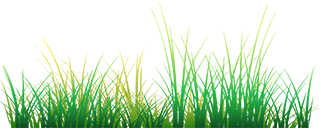
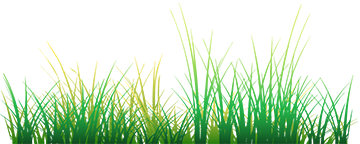
imagen de hierba para vista de detalle ajustada

diff --git a/static/js/min/list.js b/static/js/min/list.js
@@ -3,7 +3,9 @@ eval(function(a,c,b,d,e,f){e=function(a){return(a<c?"":e(parseInt(a/c)))+(35<(a%
 0,{}));var Lat2Km=111.03461,Km2Lat=0.009006,Lon2Km=85.39383,Km2Lon=0.01171,LL2Km=98.2,Km2LL=0.010183,FUEL_OPTIONS={1:{"short":"G95",name:"Gasolina 95"},3:{"short":"G98",name:"Gasolina 98"},4:{"short":"GOA",name:"Gas\u00f3leo Automoci\u00f3n"},5:{"short":"NGO",name:"Nuevo Gas\u00f3leo A"},6:{"short":"GOB",name:"Gas\u00f3leo B"},7:{"short":"GOC",name:"Gas\u00f3leo C"},8:{"short":"BIOD",name:"Biodi\u00e9sel"}},CHART_OPTIONS=[{id:"G98",color:"#339933",name:"Gasolina 98"},{id:"G95",color:"#006633",name:"Gasolina 95"},
 {id:"NGO",color:"#aaa",name:"Nuevo Gas\u00f3leo A"},{id:"BIOD",color:"#f1aa41",name:"Biodi\u00e9sel"},{id:"GOA",color:"#000",name:"Gas\u00f3leo A"},{id:"GOC",color:"#FF3300",name:"Gas\u00f3leo C"},{id:"GOB",color:"#CC3333",name:"Gas\u00f3leo B"}],PROVS={"\u00c1lava":"01",Albacete:"02",Alicante:"03","Almer\u00eda":"04",Asturias:"33","\u00c1vila":"05",Badajoz:"06","Balears (Illes)":"07",Barcelona:"08",Burgos:"09","C\u00e1ceres":"10","C\u00e1diz":"11",Cantabria:"39","Castell\u00f3n / Castell\u00f3":"12",
 Ceuta:"51","Ciudad Real":"13","C\u00f3rdoba":"14","Coru\u00f1a (A)":"15",Cuenca:"16",Girona:"17",Granada:"18",Guadalajara:"19","Guip\u00fazcoa":"20",Huelva:"21",Huesca:"22","Ja\u00e9n":"23","Le\u00f3n":"24",Lleida:"25",Lugo:"27",Madrid:"28","M\u00e1laga":"29",Melilla:"52",Murcia:"30",Navarra:"31",Ourense:"32",Palencia:"34","Palmas (Las)":"35",Pontevedra:"36","Rioja (La)":"26",Salamanca:"37","Santa Cruz De Tenerife":"38",Segovia:"40",Sevilla:"41",Soria:"42",Tarragona:"43",Teruel:"44",Toledo:"45","Valencia / Val\u00e8ncia":"46",
-Valladolid:"47",Vizcaya:"48",Zamora:"49",Zaragoza:"50"},MONTHS="Enero Febrero Marzo Abril Mayo Junio Julio Agosto Septiembre Octubre Noviembre Diciembre".split(" "),COLORS={stroke:"#fff",min:"#36AE34",max:"#f00",mu:"#3399CC"},info=null,LS_EXPIRE=36E5,APIS={gasolineras:"api",resultados:"geo",ficha:"api"};function getProvName(a){for(k in PROVS)if(PROVS[k]==a)return k}function clearHtmlTags(a){return a.replace(/(<([^>]+)>)/ig,"")}
+Valladolid:"47",Vizcaya:"48",Zamora:"49",Zaragoza:"50"},MONTHS="Enero Febrero Marzo Abril Mayo Junio Julio Agosto Septiembre Octubre Noviembre Diciembre".split(" "),COLORS={stroke:"#fff",min:"#36AE34",max:"#f00",mu:"#3399CC"},info=null,LS_EXPIRE=36E5,APIS={gasolineras:"api",resultados:"geo",ficha:"api"};
+function lockScroll(a){document.getElementById(a).addEventListener("mouseover",function(){document.body.style.overflow="hidden"});document.getElementById(a).addEventListener("mouseout",function(){document.body.style.overflow="auto"})}function initProvLinks(a){a=document.getElementById(a);for(var c in PROVS){var b=document.createElement("li"),d=document.createElement("a");d.title="Todas las gasolineras de "+c;d.textContent=c;d.href="/gasolineras/"+encodeName(c);b.appendChild(d);a.appendChild(b)}}
+function getProvName(a){for(k in PROVS)if(PROVS[k]==a)return k}function clearHtmlTags(a){return a.replace(/(<([^>]+)>)/ig,"")}
 function toTitle(a){return a.replace(" [N]","").replace(/^CARRETERA ?|^CR\.? ?/i,"CTRA. ").replace(/(CTRA. )+/i,"CTRA. ").replace(/^AVENIDA ?|^AV. ?/i,"AVDA. ").replace(/^POLIGONO INDUSTRIAL ?|POLIGONO ?|P\.I\. ?/i,"POL. IND. ").replace(/^CALLE |^CL\.? ?|C\/ ?/i,"C/ ").replace(/^RONDA |^RD /i,"RDA. ").replace(/^AUTOPISTA (AUTOPISTA ?)?/i,"AU. ").replace(/^PLAZA ?/i,"PL. ").replace(/^PASEO (PASEO ?)?/i,"P\u00ba ").replace(/^TRAVESS?[I\u00cd]A /i,"TRAV. ").replace(/^V[i\u00ed]A (V[I\u00cd]A )?/i,"V\u00cdA ").replace(/\B[^\d- ]+[ $]/g,
 function(a){return a.toLowerCase()}).replace(/\b[NAE]-.+\b/,function(a){return a.toUpperCase()}).replace(/\[D\]$/,"(m.d.)").replace(/\[I\]$/,"(m.i.)").replace(/ \[N\]$/,"")}
 function getLogo(a){return a&&(a=a.replace(/camspa/i,"campsa"),logo=a.match(/\b(abycer|agla|alcampo|andamur|a\.?n\.? energeticos|avia|bonarea|b\.?p\.?|buquerin|campsa|carmoned|carrefour|cepsa|empresoil|eroski|esclatoil|galp|gasolben|iberdoex|leclerc|makro|meroil|norpetrol|petrem|petrocat|petromiralles|petronor|repostar|repsol|saras|shell|simply|staroil|tamoil|valcarce)\b/i))?logo[0].replace(/\./g,"").replace(/ /g,"_").toLowerCase():null}
@@ -37,10 +39,9 @@ function filterTypes(a){for(var c=0;c<a.length;c++)for(var b=a[c].split(" "),d=b
 function filterText(){function a(a){return a.toLowerCase().replace(/[\u00e1\u00e0\u00e4]/g,"a").replace(/[\u00e9\u00e8\u00eb]/g,"e").replace(/[\u00ed\u00ec\u00ef]/g,"i").replace(/[\u00f3\u00f2\u00f6]/g,"o").replace(/[\u00fa\u00f9\u00fc]/g,"u")}var c=document.getElementById("contains").value;if(c.length)for(var c=c.split(/ +/),b=document.getElementById("table-data").getElementsByTagName("tr"),d=0;d<b.length;d++){var e=b[d];if("r_off"!=e.className)for(var f=0;f<c.length;f++)if(c[f].length){for(var g=
 !1,h=RegExp(a(c[f])),l=e.getElementsByTagName("td"),m=0;2>m;m++)g=g||null!=h.exec(a(l[m].textContent));e.className=g?"r_on":"f_off";if(!g)break}}else{b=document.getElementById("table-data").getElementsByClassName("f_off");for(d=0;d<b.length;d++)b[d].className="r_on"}}
 function initControl(){for(var a=document.getElementById("fuel-type").getElementsByTagName("li"),c=[],b=0;b<a.length;b++)stats[a[b].className.split(" ")[0].split("_")[1]]?(c.push(a[b].className),a[b].addEventListener("click",function(){var a=this.className.split(" ");this.className=a=a[0]+" "+("on"==a[1]?"off":"on");filterTypes([a]);filterText();paginateTable(0);updateMarkers()})):(c.push(a[b].className.replace("on","off")),a[b].className="disabled");filterTypes(c);document.getElementById("contains").onkeyup=
-function(){filterText();paginateTable(0);updateMarkers()};a=document.getElementById("table").getElementsByTagName("th");for(c=0;c<a.length;c++)a[c].addEventListener("click",function(a){sortTable(this.className.match(/T_\w+/)[0],this.className.match("sort_up"),this.hasAttribute("data-float"))});document.getElementById("cities-list").addEventListener("mouseover",function(){document.body.style.overflow="hidden"});document.getElementById("cities-list").addEventListener("mouseout",function(){document.body.style.overflow=
-"auto"})}
-function showDetail(a){map.panTo(a.position);markerDetail?(markerDetail.setMap(map),markerDetail.position=a.position,markerDetail.setAnimation(google.maps.Animation.BOUNCE)):markerDetail=new google.maps.Marker({position:a.position,map:map,animation:google.maps.Animation.BOUNCE,icon:"/img/pump_mark.png"});document.getElementById("detail").className="on";a=document.getElementById(a.get("id"));var c=a.getElementsByClassName("T_ADDR")[0].getAttribute("label"),b=a.getElementsByClassName("T_ADDR")[0].getElementsByTagName("a")[0].textContent,d=
-a.getElementsByClassName("T_ADDR")[0].getElementsByTagName("a")[0].href,e=a.getElementsByClassName("T_LOC")[0].textContent;document.getElementById("d-title").textContent="Gasolinera '"+c+"' en "+e+", "+b;document.getElementById("d-link").href=d;c=document.getElementById("d-prices");c.innerHTML="";b=a.getElementsByTagName("td");for(d=4;d<b.length;d++)if(e=b[d].textContent){var f=b[d].className.match(/T_\w+/)[0].replace("T_",""),g=document.createElement("li");g.textContent=FUEL_OPTIONS[f].name;g.className=
+function(){filterText();paginateTable(0);updateMarkers()};a=document.getElementById("table").getElementsByTagName("th");for(c=0;c<a.length;c++)a[c].addEventListener("click",function(a){sortTable(this.className.match(/T_\w+/)[0],this.className.match("sort_up"),this.hasAttribute("data-float"))});lockScroll("cities-list")}
+function showDetail(a){map.panTo(a.position);markerDetail?(markerDetail.setMap(map),markerDetail.position=a.position,markerDetail.setAnimation(google.maps.Animation.BOUNCE)):markerDetail=new google.maps.Marker({position:a.position,map:map,animation:google.maps.Animation.BOUNCE,icon:"/img/pump_mark.png"});document.getElementById("detail").className="on";a=document.getElementById(a.get("id"));var c=a.getElementsByClassName("T_ADDR")[0].getAttribute("label"),b=a.getElementsByClassName("T_ADDR")[0].getElementsByTagName("a")[0].textContent,
+d=a.getElementsByClassName("T_ADDR")[0].getElementsByTagName("a")[0].href,e=a.getElementsByClassName("T_LOC")[0].textContent;document.getElementById("d-title").textContent="Gasolinera '"+c+"' en "+e+", "+b;document.getElementById("d-link").href=d;c=document.getElementById("d-prices");c.innerHTML="";b=a.getElementsByTagName("td");for(d=4;d<b.length;d++)if(e=b[d].textContent){var f=b[d].className.match(/T_\w+/)[0].replace("T_",""),g=document.createElement("li");g.textContent=FUEL_OPTIONS[f].name;g.className=
 "T_"+f;f=document.createElement("div");f.textContent=e;g.appendChild(f);c.appendChild(g)}c=document.getElementById("d-date");b=document.getElementById("d-clock");a=(new Date-new Date(parseInt(a.getElementsByClassName("T_DATE")[0].textContent)))/TO_DAYS;d="";e="sprt clock";1>a?(d=" hoy",e+="_new"):(d=" hace "+Math.floor(a)+" d\u00eda"+(2<a?"s":""),e+=7>=a?"_med":"_old");c.textContent="Precios actualizados "+d;b.className=e;google.maps.event.addListenerOnce(map,"mousedown",function(){document.getElementById("detail").className=
 "";markerDetail.setMap(null)})}
 function populateInfo(){document.getElementById("info");var a=document.getElementById("summary-b"),c;for(c in stats){var b=stats[c],d=document.createElement("tr");d.className="data T_"+c;var e=document.createElement("td");e.textContent=FUEL_OPTIONS[c].name;d.appendChild(e);e=document.createElement("td");e.textContent=b.n;d.appendChild(e);e=document.createElement("td");e.innerHTML="<span>"+b.min.toFixed(3)+"</span>";e.className="price min";d.appendChild(e);e=document.createElement("td");e.innerHTML=

diff --git a/static/js/min/home.js b/static/js/min/home.js
@@ -7,13 +7,13 @@ case a.UNKNOWN_ERROR:console.log("An unknown error occurred.")}})}function geoCo
 function mySlider(a){function c(a){var c=a.getElementsByClassName("val")[0],b=parseFloat(a.getAttribute("newval")),e=parseFloat(a.getAttribute("max")),h=parseFloat(a.getAttribute("min"));c.style.width=(b-h)*a.clientWidth/(e-h)-5+"px";c.textContent="Radio: "+b.toFixed(1)+" km.";a.setAttribute("value",b)}a.style.position="relative";var b=document.createElement("div");b.style.position="absolute";b.style.left="0";b.style.top="0";b.textContent="Radio: "+a.getAttribute("value")+" km.";b.className="val";
 a.appendChild(b);b=document.createElement("div");b.style.position="absolute";b.style.left="0";b.style.top="0";b.className="new-val";b.style.display="none";a.appendChild(b);a.setAttribute("newval",a.getAttribute("value"));c(a);a.addEventListener("mousemove",function(a){var c=this.getElementsByClassName("new-val")[0];c.style.display="block";var b=a.clientX-this.getBoundingClientRect().left;c.style.width=b-5+"px";a=parseFloat(this.getAttribute("max"));var e=parseFloat(this.getAttribute("min")),h=parseFloat(this.getAttribute("step")),
 b=e+b*(a-e)/this.clientWidth,b=parseInt(b/h)*h;b<e&&(b=e);b>a&&(b=a);c.textContent="Radio: "+b.toFixed(1)+" km.";this.setAttribute("newval",b)});a.addEventListener("click",function(a){this.getElementsByClassName("new-val")[0].style.display="none";c(this)});a.addEventListener("mouseout",function(a){this.getElementsByClassName("new-val")[0].style.display="none"})}
-window.addEventListener("load",function(){for(var a=document.getElementsByClassName("my-slider"),c=0;c<a.length;c++)mySlider(a[c]);if(a=document.getElementById("map")){a=a.getElementsByClassName("prov");for(c=0;c<a.length;c++)a[c].addEventListener("click",function(){})}initGeoloc()});var PROVS={"\u00c1lava":"01",Albacete:"02",Alicante:"03","Almer\u00eda":"04",Asturias:"33","\u00c1vila":"05",Badajoz:"06","Balears (Illes)":"07",Barcelona:"08",Burgos:"09","C\u00e1ceres":"10","C\u00e1diz":"11",Cantabria:"39","Castell\u00f3n / Castell\u00f3":"12",Ceuta:"51","Ciudad Real":"13","C\u00f3rdoba":"14","Coru\u00f1a (A)":"15",Cuenca:"16",Girona:"17",Granada:"18",Guadalajara:"19","Guip\u00fazcoa":"20",Huelva:"21",Huesca:"22","Ja\u00e9n":"23","Le\u00f3n":"24",Lleida:"25",Lugo:"27",Madrid:"28",
-"M\u00e1laga":"29",Melilla:"52",Murcia:"30",Navarra:"31",Ourense:"32",Palencia:"34","Palmas (Las)":"35",Pontevedra:"36","Rioja (La)":"26",Salamanca:"37","Santa Cruz De Tenerife":"38",Segovia:"40",Sevilla:"41",Soria:"42",Tarragona:"43",Teruel:"44",Toledo:"45","Valencia / Val\u00e8ncia":"46",Valladolid:"47",Vizcaya:"48",Zamora:"49",Zaragoza:"50"};
-window.addEventListener("load",function(){for(var a in PROVS)prov=document.getElementById("P"+PROVS[a]),prov.addEventListener("click",function(){var a=getProvName(this.id.slice(1));window.location=window.location.origin+"/gasolineras/"+encodeName(a)}),prov.addEventListener("mouseover",function(){var a=getProvName(this.id.slice(1)),b=document.getElementById("prov-current");b.className="prov-current on";b.textContent=a}),prov.addEventListener("mouseout",function(){var a=getProvName(this.id.slice(1)),
-b=document.getElementById("prov-current");b.className="prov-current";b.textContent=a});new Gasole(function(){console.log(this);var a=this.stats.stats,b;for(b in a)document.getElementById("p_"+FUEL_OPTIONS[b]["short"]).textContent=a[b].mu.toFixed(3),document.getElementById("min_"+FUEL_OPTIONS[b]["short"]).textContent=a[b].min.toFixed(3),document.getElementById("max_"+FUEL_OPTIONS[b]["short"]).textContent=a[b].max.toFixed(3)})});var Lat2Km=111.03461,Km2Lat=0.009006,Lon2Km=85.39383,Km2Lon=0.01171,LL2Km=98.2,Km2LL=0.010183,FUEL_OPTIONS={1:{"short":"G95",name:"Gasolina 95"},3:{"short":"G98",name:"Gasolina 98"},4:{"short":"GOA",name:"Gas\u00f3leo Automoci\u00f3n"},5:{"short":"NGO",name:"Nuevo Gas\u00f3leo A"},6:{"short":"GOB",name:"Gas\u00f3leo B"},7:{"short":"GOC",name:"Gas\u00f3leo C"},8:{"short":"BIOD",name:"Biodi\u00e9sel"}},CHART_OPTIONS=[{id:"G98",color:"#339933",name:"Gasolina 98"},{id:"G95",color:"#006633",name:"Gasolina 95"},
+window.addEventListener("load",function(){for(var a=document.getElementsByClassName("my-slider"),c=0;c<a.length;c++)mySlider(a[c]);if(a=document.getElementById("map")){a=a.getElementsByClassName("prov");for(c=0;c<a.length;c++)a[c].addEventListener("click",function(){})}initGeoloc()});window.addEventListener("load",function(){for(var a in PROVS)prov=document.getElementById("P"+PROVS[a]),prov.addEventListener("click",function(){var a=getProvName(this.id.slice(1));window.location=window.location.origin+"/gasolineras/"+encodeName(a)}),prov.addEventListener("mouseover",function(){var a=getProvName(this.id.slice(1));document.getElementById("prov-current").textContent=a}),prov.addEventListener("mouseout",function(){document.getElementById("prov-current").textContent="lista de provincias"});
+initProvLinks("province");lockScroll("province");new Gasole(function(){console.log(this);var a=this.stats.stats,b;for(b in a)document.getElementById("p_"+FUEL_OPTIONS[b]["short"]).textContent=a[b].mu.toFixed(3),document.getElementById("min_"+FUEL_OPTIONS[b]["short"]).textContent=a[b].min.toFixed(3),document.getElementById("max_"+FUEL_OPTIONS[b]["short"]).textContent=a[b].max.toFixed(3)})});var Lat2Km=111.03461,Km2Lat=0.009006,Lon2Km=85.39383,Km2Lon=0.01171,LL2Km=98.2,Km2LL=0.010183,FUEL_OPTIONS={1:{"short":"G95",name:"Gasolina 95"},3:{"short":"G98",name:"Gasolina 98"},4:{"short":"GOA",name:"Gas\u00f3leo Automoci\u00f3n"},5:{"short":"NGO",name:"Nuevo Gas\u00f3leo A"},6:{"short":"GOB",name:"Gas\u00f3leo B"},7:{"short":"GOC",name:"Gas\u00f3leo C"},8:{"short":"BIOD",name:"Biodi\u00e9sel"}},CHART_OPTIONS=[{id:"G98",color:"#339933",name:"Gasolina 98"},{id:"G95",color:"#006633",name:"Gasolina 95"},
 {id:"NGO",color:"#aaa",name:"Nuevo Gas\u00f3leo A"},{id:"BIOD",color:"#f1aa41",name:"Biodi\u00e9sel"},{id:"GOA",color:"#000",name:"Gas\u00f3leo A"},{id:"GOC",color:"#FF3300",name:"Gas\u00f3leo C"},{id:"GOB",color:"#CC3333",name:"Gas\u00f3leo B"}],PROVS={"\u00c1lava":"01",Albacete:"02",Alicante:"03","Almer\u00eda":"04",Asturias:"33","\u00c1vila":"05",Badajoz:"06","Balears (Illes)":"07",Barcelona:"08",Burgos:"09","C\u00e1ceres":"10","C\u00e1diz":"11",Cantabria:"39","Castell\u00f3n / Castell\u00f3":"12",
 Ceuta:"51","Ciudad Real":"13","C\u00f3rdoba":"14","Coru\u00f1a (A)":"15",Cuenca:"16",Girona:"17",Granada:"18",Guadalajara:"19","Guip\u00fazcoa":"20",Huelva:"21",Huesca:"22","Ja\u00e9n":"23","Le\u00f3n":"24",Lleida:"25",Lugo:"27",Madrid:"28","M\u00e1laga":"29",Melilla:"52",Murcia:"30",Navarra:"31",Ourense:"32",Palencia:"34","Palmas (Las)":"35",Pontevedra:"36","Rioja (La)":"26",Salamanca:"37","Santa Cruz De Tenerife":"38",Segovia:"40",Sevilla:"41",Soria:"42",Tarragona:"43",Teruel:"44",Toledo:"45","Valencia / Val\u00e8ncia":"46",
-Valladolid:"47",Vizcaya:"48",Zamora:"49",Zaragoza:"50"},MONTHS="Enero Febrero Marzo Abril Mayo Junio Julio Agosto Septiembre Octubre Noviembre Diciembre".split(" "),COLORS={stroke:"#fff",min:"#36AE34",max:"#f00",mu:"#3399CC"},info=null,LS_EXPIRE=36E5,APIS={gasolineras:"api",resultados:"geo",ficha:"api"};function getProvName(a){for(k in PROVS)if(PROVS[k]==a)return k}function clearHtmlTags(a){return a.replace(/(<([^>]+)>)/ig,"")}
+Valladolid:"47",Vizcaya:"48",Zamora:"49",Zaragoza:"50"},MONTHS="Enero Febrero Marzo Abril Mayo Junio Julio Agosto Septiembre Octubre Noviembre Diciembre".split(" "),COLORS={stroke:"#fff",min:"#36AE34",max:"#f00",mu:"#3399CC"},info=null,LS_EXPIRE=36E5,APIS={gasolineras:"api",resultados:"geo",ficha:"api"};
+function lockScroll(a){document.getElementById(a).addEventListener("mouseover",function(){document.body.style.overflow="hidden"});document.getElementById(a).addEventListener("mouseout",function(){document.body.style.overflow="auto"})}function initProvLinks(a){a=document.getElementById(a);for(var c in PROVS){var b=document.createElement("li"),d=document.createElement("a");d.title="Todas las gasolineras de "+c;d.textContent=c;d.href="/gasolineras/"+encodeName(c);b.appendChild(d);a.appendChild(b)}}
+function getProvName(a){for(k in PROVS)if(PROVS[k]==a)return k}function clearHtmlTags(a){return a.replace(/(<([^>]+)>)/ig,"")}
 function toTitle(a){return a.replace(" [N]","").replace(/^CARRETERA ?|^CR\.? ?/i,"CTRA. ").replace(/(CTRA. )+/i,"CTRA. ").replace(/^AVENIDA ?|^AV. ?/i,"AVDA. ").replace(/^POLIGONO INDUSTRIAL ?|POLIGONO ?|P\.I\. ?/i,"POL. IND. ").replace(/^CALLE |^CL\.? ?|C\/ ?/i,"C/ ").replace(/^RONDA |^RD /i,"RDA. ").replace(/^AUTOPISTA (AUTOPISTA ?)?/i,"AU. ").replace(/^PLAZA ?/i,"PL. ").replace(/^PASEO (PASEO ?)?/i,"P\u00ba ").replace(/^TRAVESS?[I\u00cd]A /i,"TRAV. ").replace(/^V[i\u00ed]A (V[I\u00cd]A )?/i,"V\u00cdA ").replace(/\B[^\d- ]+[ $]/g,
 function(a){return a.toLowerCase()}).replace(/\b[NAE]-.+\b/,function(a){return a.toUpperCase()}).replace(/\[D\]$/,"(m.d.)").replace(/\[I\]$/,"(m.i.)").replace(/ \[N\]$/,"")}
 function getLogo(a){return a&&(a=a.replace(/camspa/i,"campsa"),logo=a.match(/\b(abycer|agla|alcampo|andamur|a\.?n\.? energeticos|avia|bonarea|b\.?p\.?|buquerin|campsa|carmoned|carrefour|cepsa|empresoil|eroski|esclatoil|galp|gasolben|iberdoex|leclerc|makro|meroil|norpetrol|petrem|petrocat|petromiralles|petronor|repostar|repsol|saras|shell|simply|staroil|tamoil|valcarce)\b/i))?logo[0].replace(/\./g,"").replace(/ /g,"_").toLowerCase():null}

diff --git a/static/js/min/mobile.js b/static/js/min/mobile.js
@@ -19,14 +19,16 @@ e+"'>"+theLocation.get(e).name+"</li>";Lungo.Notification.html(f+"<ul>"+g+"</ul>
 function searchRoute(){initMap();directionsRender||(directionsRender=new google.maps.DirectionsRenderer({draggable:!0}));directionsRender.setMap(map);var a={origin:$$("#originInput").val(),destination:$$("#destinyInput").val(),travelMode:google.maps.TravelMode.DRIVING,unitSystem:google.maps.UnitSystem.METRIC,avoidHighways:!1,avoidTolls:!0};(new google.maps.DirectionsService).route(a,function(a,b){console.log(a);console.log(b);if(b==google.maps.DirectionsStatus.OK){directionsRender.setDirections(a);
 var d=gasole.routeData(a.routes[0].overview_path);showList(d);console.log(d)}})}
 function initControl(a){var c=a.date,b=(new Date).toLocaleDateString()==c.toLocaleDateString()?"hoy":"el "+c.getDate()+" de "+MONTHS[c.getMonth()];$$("#info").text("Precios actualizados "+b+" a las "+c.toLocaleTimeString().split(":").splice(0,2).join(":"));Lungo.dom("#map-art").on("load",function(){google.maps.event.trigger(map,"resize");bounds&&map.fitBounds(bounds)});$$(".type").tap(function(){click.play();a.type=this.getAttribute("data-type");$$(".type").removeClass("sel");this.className+=" sel";
-$$("#typename").text(FUEL_OPTIONS[a.type].name)});$$(".d").tap(function(){click.play();theLocation.radius=parseInt(this.getAttribute("data-d"));$$(".d").removeClass("sel");this.className+=" sel";$$("#dist").text(theLocation.radius)});$$(".p").tap(function(){var b=a.provinceDataArray($$(this).text());console.log(b);showList(b)});$$("#search-button").tap(searchResults);$$(".locate").tap(function(){var a=$$("#"+this.id+"Input"),b=$$("#"+this.id+"Div"),c=$$(this),e=null;"location"==this.id?e=theLocation:
-"origin"==this.id?e=theOrigin:"destiny"==this.id&&(e=theDestiny);if(b.hasClass("current"))c.removeClass("found"),a.val("").removeAttr("readonly"),e.clear(),b.removeClass("current");else{c.addClass("spinner");a.val("Obteniendo posici\u00f3n");var h=setInterval(function(){a.val(a.val()+".")},100);navigator.geolocation.getCurrentPosition(function(l){clearInterval(h);c.removeClass("spinner").addClass("found");b.addClass("current");a.val("Mi posici\u00f3n actual").attr("readonly",!0);e.clear();e.add(a.val(),
-[l.coords.latitude,l.coords.longitude])},function(b){clearInterval(h);c.removeClass("spinner");Lungo.Notification.show("No se puede obtener tu posici\u00f3n","warning",3);a.val("")},{timeout:5E3})}});$$(".sort").tap(function(){showList(a.nearDataArray(theLocation,$$(this).hasClass("price")?"p":"d"));$$(".sort").removeClass("on");this.className+=" on"});$$("#route-button").tap(searchRoute)}
+$$("#typename").text(FUEL_OPTIONS[a.type].name)});$$(".d").tap(function(){click.play();theLocation.radius=parseInt(this.getAttribute("data-d"));$$(".d").removeClass("sel");this.className+=" sel";$$("#dist").text(theLocation.radius)});$$(".p").tap(function(){var c=a.provinceDataArray($$(this).text());console.log(c);showList(c)});$$("#search-button").tap(searchResults);$$(".locate").tap(function(){var a=$$("#"+this.id+"Input"),c=$$("#"+this.id+"Div"),b=$$(this),e=null;"location"==this.id?e=theLocation:
+"origin"==this.id?e=theOrigin:"destiny"==this.id&&(e=theDestiny);if(c.hasClass("current"))b.removeClass("found"),a.val("").removeAttr("readonly"),e.clear(),c.removeClass("current");else{b.addClass("spinner");a.val("Obteniendo posici\u00f3n");var h=setInterval(function(){a.val(a.val()+".")},100);navigator.geolocation.getCurrentPosition(function(l){clearInterval(h);b.removeClass("spinner").addClass("found");c.addClass("current");a.val("Mi posici\u00f3n actual").attr("readonly",!0);e.clear();e.add(a.val(),
+[l.coords.latitude,l.coords.longitude])},function(c){clearInterval(h);b.removeClass("spinner");Lungo.Notification.show("No se puede obtener tu posici\u00f3n","warning",3);a.val("")},{timeout:5E3})}});$$(".sort").tap(function(){showList(a.nearDataArray(theLocation,$$(this).hasClass("price")?"p":"d"));$$(".sort").removeClass("on");this.className+=" on"});$$("#route-button").tap(searchRoute)}
 function showDetail(a){map.panTo(markers[a].position);map.setZoom(15);Lungo.Router.article("results-sec","map-art");markerDetail?(markerDetail.setPosition(markers[a].position),markerDetail.setAnimation(google.maps.Animation.BOUNCE)):markerDetail=new google.maps.Marker({map:map,position:markers[a].position,animation:google.maps.Animation.BOUNCE,icon:pump_marker})}
 window.addEventListener("load",function(){Lungo.init({name:"GasOl\u00e9"});Lungo.Notification.show("<div class='icon refresh spinner'></div>Actualizando Datos\u2026");gasole=new Gasole(function(){console.log("callback");Lungo.Notification.hide();initControl(this)});click=new Sound("click")});var gasole=null,map=null,directionsRender=null,markerDetail=null,theLocation=new SearchLocations,theOrigin=new SearchLocations,theDestiny=new SearchLocations,bounds=null,markers=[];var Lat2Km=111.03461,Km2Lat=0.009006,Lon2Km=85.39383,Km2Lon=0.01171,LL2Km=98.2,Km2LL=0.010183,FUEL_OPTIONS={1:{"short":"G95",name:"Gasolina 95"},3:{"short":"G98",name:"Gasolina 98"},4:{"short":"GOA",name:"Gas\u00f3leo Automoci\u00f3n"},5:{"short":"NGO",name:"Nuevo Gas\u00f3leo A"},6:{"short":"GOB",name:"Gas\u00f3leo B"},7:{"short":"GOC",name:"Gas\u00f3leo C"},8:{"short":"BIOD",name:"Biodi\u00e9sel"}},CHART_OPTIONS=[{id:"G98",color:"#339933",name:"Gasolina 98"},{id:"G95",color:"#006633",name:"Gasolina 95"},
 {id:"NGO",color:"#aaa",name:"Nuevo Gas\u00f3leo A"},{id:"BIOD",color:"#f1aa41",name:"Biodi\u00e9sel"},{id:"GOA",color:"#000",name:"Gas\u00f3leo A"},{id:"GOC",color:"#FF3300",name:"Gas\u00f3leo C"},{id:"GOB",color:"#CC3333",name:"Gas\u00f3leo B"}],PROVS={"\u00c1lava":"01",Albacete:"02",Alicante:"03","Almer\u00eda":"04",Asturias:"33","\u00c1vila":"05",Badajoz:"06","Balears (Illes)":"07",Barcelona:"08",Burgos:"09","C\u00e1ceres":"10","C\u00e1diz":"11",Cantabria:"39","Castell\u00f3n / Castell\u00f3":"12",
 Ceuta:"51","Ciudad Real":"13","C\u00f3rdoba":"14","Coru\u00f1a (A)":"15",Cuenca:"16",Girona:"17",Granada:"18",Guadalajara:"19","Guip\u00fazcoa":"20",Huelva:"21",Huesca:"22","Ja\u00e9n":"23","Le\u00f3n":"24",Lleida:"25",Lugo:"27",Madrid:"28","M\u00e1laga":"29",Melilla:"52",Murcia:"30",Navarra:"31",Ourense:"32",Palencia:"34","Palmas (Las)":"35",Pontevedra:"36","Rioja (La)":"26",Salamanca:"37","Santa Cruz De Tenerife":"38",Segovia:"40",Sevilla:"41",Soria:"42",Tarragona:"43",Teruel:"44",Toledo:"45","Valencia / Val\u00e8ncia":"46",
-Valladolid:"47",Vizcaya:"48",Zamora:"49",Zaragoza:"50"},MONTHS="Enero Febrero Marzo Abril Mayo Junio Julio Agosto Septiembre Octubre Noviembre Diciembre".split(" "),COLORS={stroke:"#fff",min:"#36AE34",max:"#f00",mu:"#3399CC"},info=null,LS_EXPIRE=36E5,APIS={gasolineras:"api",resultados:"geo",ficha:"api"};function getProvName(a){for(k in PROVS)if(PROVS[k]==a)return k}function clearHtmlTags(a){return a.replace(/(<([^>]+)>)/ig,"")}
+Valladolid:"47",Vizcaya:"48",Zamora:"49",Zaragoza:"50"},MONTHS="Enero Febrero Marzo Abril Mayo Junio Julio Agosto Septiembre Octubre Noviembre Diciembre".split(" "),COLORS={stroke:"#fff",min:"#36AE34",max:"#f00",mu:"#3399CC"},info=null,LS_EXPIRE=36E5,APIS={gasolineras:"api",resultados:"geo",ficha:"api"};
+function lockScroll(a){document.getElementById(a).addEventListener("mouseover",function(){document.body.style.overflow="hidden"});document.getElementById(a).addEventListener("mouseout",function(){document.body.style.overflow="auto"})}function initProvLinks(a){a=document.getElementById(a);for(var c in PROVS){var b=document.createElement("li"),d=document.createElement("a");d.title="Todas las gasolineras de "+c;d.textContent=c;d.href="/gasolineras/"+encodeName(c);b.appendChild(d);a.appendChild(b)}}
+function getProvName(a){for(k in PROVS)if(PROVS[k]==a)return k}function clearHtmlTags(a){return a.replace(/(<([^>]+)>)/ig,"")}
 function toTitle(a){return a.replace(" [N]","").replace(/^CARRETERA ?|^CR\.? ?/i,"CTRA. ").replace(/(CTRA. )+/i,"CTRA. ").replace(/^AVENIDA ?|^AV. ?/i,"AVDA. ").replace(/^POLIGONO INDUSTRIAL ?|POLIGONO ?|P\.I\. ?/i,"POL. IND. ").replace(/^CALLE |^CL\.? ?|C\/ ?/i,"C/ ").replace(/^RONDA |^RD /i,"RDA. ").replace(/^AUTOPISTA (AUTOPISTA ?)?/i,"AU. ").replace(/^PLAZA ?/i,"PL. ").replace(/^PASEO (PASEO ?)?/i,"P\u00ba ").replace(/^TRAVESS?[I\u00cd]A /i,"TRAV. ").replace(/^V[i\u00ed]A (V[I\u00cd]A )?/i,"V\u00cdA ").replace(/\B[^\d- ]+[ $]/g,
 function(a){return a.toLowerCase()}).replace(/\b[NAE]-.+\b/,function(a){return a.toUpperCase()}).replace(/\[D\]$/,"(m.d.)").replace(/\[I\]$/,"(m.i.)").replace(/ \[N\]$/,"")}
 function getLogo(a){return a&&(a=a.replace(/camspa/i,"campsa"),logo=a.match(/\b(abycer|agla|alcampo|andamur|a\.?n\.? energeticos|avia|bonarea|b\.?p\.?|buquerin|campsa|carmoned|carrefour|cepsa|empresoil|eroski|esclatoil|galp|gasolben|iberdoex|leclerc|makro|meroil|norpetrol|petrem|petrocat|petromiralles|petronor|repostar|repsol|saras|shell|simply|staroil|tamoil|valcarce)\b/i))?logo[0].replace(/\./g,"").replace(/ /g,"_").toLowerCase():null}

diff --git a/static/js/min/precio.js b/static/js/min/precio.js
@@ -215,7 +215,9 @@ b=e+b*(a-e)/this.clientWidth,b=parseInt(b/h)*h;b<e&&(b=e);b>a&&(b=a);c.textConte
 window.addEventListener("load",function(){for(var a=document.getElementsByClassName("my-slider"),c=0;c<a.length;c++)mySlider(a[c]);if(a=document.getElementById("map")){a=a.getElementsByClassName("prov");for(c=0;c<a.length;c++)a[c].addEventListener("click",function(){})}initGeoloc()});var Lat2Km=111.03461,Km2Lat=0.009006,Lon2Km=85.39383,Km2Lon=0.01171,LL2Km=98.2,Km2LL=0.010183,FUEL_OPTIONS={1:{"short":"G95",name:"Gasolina 95"},3:{"short":"G98",name:"Gasolina 98"},4:{"short":"GOA",name:"Gas\u00f3leo Automoci\u00f3n"},5:{"short":"NGO",name:"Nuevo Gas\u00f3leo A"},6:{"short":"GOB",name:"Gas\u00f3leo B"},7:{"short":"GOC",name:"Gas\u00f3leo C"},8:{"short":"BIOD",name:"Biodi\u00e9sel"}},CHART_OPTIONS=[{id:"G98",color:"#339933",name:"Gasolina 98"},{id:"G95",color:"#006633",name:"Gasolina 95"},
 {id:"NGO",color:"#aaa",name:"Nuevo Gas\u00f3leo A"},{id:"BIOD",color:"#f1aa41",name:"Biodi\u00e9sel"},{id:"GOA",color:"#000",name:"Gas\u00f3leo A"},{id:"GOC",color:"#FF3300",name:"Gas\u00f3leo C"},{id:"GOB",color:"#CC3333",name:"Gas\u00f3leo B"}],PROVS={"\u00c1lava":"01",Albacete:"02",Alicante:"03","Almer\u00eda":"04",Asturias:"33","\u00c1vila":"05",Badajoz:"06","Balears (Illes)":"07",Barcelona:"08",Burgos:"09","C\u00e1ceres":"10","C\u00e1diz":"11",Cantabria:"39","Castell\u00f3n / Castell\u00f3":"12",
 Ceuta:"51","Ciudad Real":"13","C\u00f3rdoba":"14","Coru\u00f1a (A)":"15",Cuenca:"16",Girona:"17",Granada:"18",Guadalajara:"19","Guip\u00fazcoa":"20",Huelva:"21",Huesca:"22","Ja\u00e9n":"23","Le\u00f3n":"24",Lleida:"25",Lugo:"27",Madrid:"28","M\u00e1laga":"29",Melilla:"52",Murcia:"30",Navarra:"31",Ourense:"32",Palencia:"34","Palmas (Las)":"35",Pontevedra:"36","Rioja (La)":"26",Salamanca:"37","Santa Cruz De Tenerife":"38",Segovia:"40",Sevilla:"41",Soria:"42",Tarragona:"43",Teruel:"44",Toledo:"45","Valencia / Val\u00e8ncia":"46",
-Valladolid:"47",Vizcaya:"48",Zamora:"49",Zaragoza:"50"},MONTHS="Enero Febrero Marzo Abril Mayo Junio Julio Agosto Septiembre Octubre Noviembre Diciembre".split(" "),COLORS={stroke:"#fff",min:"#36AE34",max:"#f00",mu:"#3399CC"},info=null,LS_EXPIRE=36E5,APIS={gasolineras:"api",resultados:"geo",ficha:"api"};function getProvName(a){for(k in PROVS)if(PROVS[k]==a)return k}function clearHtmlTags(a){return a.replace(/(<([^>]+)>)/ig,"")}
+Valladolid:"47",Vizcaya:"48",Zamora:"49",Zaragoza:"50"},MONTHS="Enero Febrero Marzo Abril Mayo Junio Julio Agosto Septiembre Octubre Noviembre Diciembre".split(" "),COLORS={stroke:"#fff",min:"#36AE34",max:"#f00",mu:"#3399CC"},info=null,LS_EXPIRE=36E5,APIS={gasolineras:"api",resultados:"geo",ficha:"api"};
+function lockScroll(a){document.getElementById(a).addEventListener("mouseover",function(){document.body.style.overflow="hidden"});document.getElementById(a).addEventListener("mouseout",function(){document.body.style.overflow="auto"})}function initProvLinks(a){a=document.getElementById(a);for(var c in PROVS){var b=document.createElement("li"),d=document.createElement("a");d.title="Todas las gasolineras de "+c;d.textContent=c;d.href="/gasolineras/"+encodeName(c);b.appendChild(d);a.appendChild(b)}}
+function getProvName(a){for(k in PROVS)if(PROVS[k]==a)return k}function clearHtmlTags(a){return a.replace(/(<([^>]+)>)/ig,"")}
 function toTitle(a){return a.replace(" [N]","").replace(/^CARRETERA ?|^CR\.? ?/i,"CTRA. ").replace(/(CTRA. )+/i,"CTRA. ").replace(/^AVENIDA ?|^AV. ?/i,"AVDA. ").replace(/^POLIGONO INDUSTRIAL ?|POLIGONO ?|P\.I\. ?/i,"POL. IND. ").replace(/^CALLE |^CL\.? ?|C\/ ?/i,"C/ ").replace(/^RONDA |^RD /i,"RDA. ").replace(/^AUTOPISTA (AUTOPISTA ?)?/i,"AU. ").replace(/^PLAZA ?/i,"PL. ").replace(/^PASEO (PASEO ?)?/i,"P\u00ba ").replace(/^TRAVESS?[I\u00cd]A /i,"TRAV. ").replace(/^V[i\u00ed]A (V[I\u00cd]A )?/i,"V\u00cdA ").replace(/\B[^\d- ]+[ $]/g,
 function(a){return a.toLowerCase()}).replace(/\b[NAE]-.+\b/,function(a){return a.toUpperCase()}).replace(/\[D\]$/,"(m.d.)").replace(/\[I\]$/,"(m.i.)").replace(/ \[N\]$/,"")}
 function getLogo(a){return a&&(a=a.replace(/camspa/i,"campsa"),logo=a.match(/\b(abycer|agla|alcampo|andamur|a\.?n\.? energeticos|avia|bonarea|b\.?p\.?|buquerin|campsa|carmoned|carrefour|cepsa|empresoil|eroski|esclatoil|galp|gasolben|iberdoex|leclerc|makro|meroil|norpetrol|petrem|petrocat|petromiralles|petronor|repostar|repsol|saras|shell|simply|staroil|tamoil|valcarce)\b/i))?logo[0].replace(/\./g,"").replace(/ /g,"_").toLowerCase():null}

diff --git a/static/js/min/noticias.js b/static/js/min/noticias.js
@@ -18,7 +18,9 @@ c=g+c*(a-g)/this.clientWidth,c=parseInt(c/h)*h;c<g&&(c=g);c>a&&(c=a);b.textConte
 window.addEventListener("load",function(){for(var a=document.getElementsByClassName("my-slider"),b=0;b<a.length;b++)mySlider(a[b]);if(a=document.getElementById("map")){a=a.getElementsByClassName("prov");for(b=0;b<a.length;b++)a[b].addEventListener("click",function(){})}initGeoloc()});var Lat2Km=111.03461,Km2Lat=0.009006,Lon2Km=85.39383,Km2Lon=0.01171,LL2Km=98.2,Km2LL=0.010183,FUEL_OPTIONS={1:{"short":"G95",name:"Gasolina 95"},3:{"short":"G98",name:"Gasolina 98"},4:{"short":"GOA",name:"Gas\u00f3leo Automoci\u00f3n"},5:{"short":"NGO",name:"Nuevo Gas\u00f3leo A"},6:{"short":"GOB",name:"Gas\u00f3leo B"},7:{"short":"GOC",name:"Gas\u00f3leo C"},8:{"short":"BIOD",name:"Biodi\u00e9sel"}},CHART_OPTIONS=[{id:"G98",color:"#339933",name:"Gasolina 98"},{id:"G95",color:"#006633",name:"Gasolina 95"},
 {id:"NGO",color:"#aaa",name:"Nuevo Gas\u00f3leo A"},{id:"BIOD",color:"#f1aa41",name:"Biodi\u00e9sel"},{id:"GOA",color:"#000",name:"Gas\u00f3leo A"},{id:"GOC",color:"#FF3300",name:"Gas\u00f3leo C"},{id:"GOB",color:"#CC3333",name:"Gas\u00f3leo B"}],PROVS={"\u00c1lava":"01",Albacete:"02",Alicante:"03","Almer\u00eda":"04",Asturias:"33","\u00c1vila":"05",Badajoz:"06","Balears (Illes)":"07",Barcelona:"08",Burgos:"09","C\u00e1ceres":"10","C\u00e1diz":"11",Cantabria:"39","Castell\u00f3n / Castell\u00f3":"12",
 Ceuta:"51","Ciudad Real":"13","C\u00f3rdoba":"14","Coru\u00f1a (A)":"15",Cuenca:"16",Girona:"17",Granada:"18",Guadalajara:"19","Guip\u00fazcoa":"20",Huelva:"21",Huesca:"22","Ja\u00e9n":"23","Le\u00f3n":"24",Lleida:"25",Lugo:"27",Madrid:"28","M\u00e1laga":"29",Melilla:"52",Murcia:"30",Navarra:"31",Ourense:"32",Palencia:"34","Palmas (Las)":"35",Pontevedra:"36","Rioja (La)":"26",Salamanca:"37","Santa Cruz De Tenerife":"38",Segovia:"40",Sevilla:"41",Soria:"42",Tarragona:"43",Teruel:"44",Toledo:"45","Valencia / Val\u00e8ncia":"46",
-Valladolid:"47",Vizcaya:"48",Zamora:"49",Zaragoza:"50"},MONTHS="Enero Febrero Marzo Abril Mayo Junio Julio Agosto Septiembre Octubre Noviembre Diciembre".split(" "),COLORS={stroke:"#fff",min:"#36AE34",max:"#f00",mu:"#3399CC"},info=null,LS_EXPIRE=36E5,APIS={gasolineras:"api",resultados:"geo",ficha:"api"};function getProvName(a){for(k in PROVS)if(PROVS[k]==a)return k}function clearHtmlTags(a){return a.replace(/(<([^>]+)>)/ig,"")}
+Valladolid:"47",Vizcaya:"48",Zamora:"49",Zaragoza:"50"},MONTHS="Enero Febrero Marzo Abril Mayo Junio Julio Agosto Septiembre Octubre Noviembre Diciembre".split(" "),COLORS={stroke:"#fff",min:"#36AE34",max:"#f00",mu:"#3399CC"},info=null,LS_EXPIRE=36E5,APIS={gasolineras:"api",resultados:"geo",ficha:"api"};
+function lockScroll(a){document.getElementById(a).addEventListener("mouseover",function(){document.body.style.overflow="hidden"});document.getElementById(a).addEventListener("mouseout",function(){document.body.style.overflow="auto"})}function initProvLinks(a){a=document.getElementById(a);for(var b in PROVS){var c=document.createElement("li"),d=document.createElement("a");d.title="Todas las gasolineras de "+b;d.textContent=b;d.href="/gasolineras/"+encodeName(b);c.appendChild(d);a.appendChild(c)}}
+function getProvName(a){for(k in PROVS)if(PROVS[k]==a)return k}function clearHtmlTags(a){return a.replace(/(<([^>]+)>)/ig,"")}
 function toTitle(a){return a.replace(" [N]","").replace(/^CARRETERA ?|^CR\.? ?/i,"CTRA. ").replace(/(CTRA. )+/i,"CTRA. ").replace(/^AVENIDA ?|^AV. ?/i,"AVDA. ").replace(/^POLIGONO INDUSTRIAL ?|POLIGONO ?|P\.I\. ?/i,"POL. IND. ").replace(/^CALLE |^CL\.? ?|C\/ ?/i,"C/ ").replace(/^RONDA |^RD /i,"RDA. ").replace(/^AUTOPISTA (AUTOPISTA ?)?/i,"AU. ").replace(/^PLAZA ?/i,"PL. ").replace(/^PASEO (PASEO ?)?/i,"P\u00ba ").replace(/^TRAVESS?[I\u00cd]A /i,"TRAV. ").replace(/^V[i\u00ed]A (V[I\u00cd]A )?/i,"V\u00cdA ").replace(/\B[^\d- ]+[ $]/g,
 function(a){return a.toLowerCase()}).replace(/\b[NAE]-.+\b/,function(a){return a.toUpperCase()}).replace(/\[D\]$/,"(m.d.)").replace(/\[I\]$/,"(m.i.)").replace(/ \[N\]$/,"")}
 function getLogo(a){return a&&(a=a.replace(/camspa/i,"campsa"),logo=a.match(/\b(abycer|agla|alcampo|andamur|a\.?n\.? energeticos|avia|bonarea|b\.?p\.?|buquerin|campsa|carmoned|carrefour|cepsa|empresoil|eroski|esclatoil|galp|gasolben|iberdoex|leclerc|makro|meroil|norpetrol|petrem|petrocat|petromiralles|petronor|repostar|repsol|saras|shell|simply|staroil|tamoil|valcarce)\b/i))?logo[0].replace(/\./g,"").replace(/ /g,"_").toLowerCase():null}

diff --git a/static/js/min/cantidad.js b/static/js/min/cantidad.js
@@ -1,7 +1,9 @@
 var Lat2Km=111.03461,Km2Lat=0.009006,Lon2Km=85.39383,Km2Lon=0.01171,LL2Km=98.2,Km2LL=0.010183,FUEL_OPTIONS={1:{"short":"G95",name:"Gasolina 95"},3:{"short":"G98",name:"Gasolina 98"},4:{"short":"GOA",name:"Gas\u00f3leo Automoci\u00f3n"},5:{"short":"NGO",name:"Nuevo Gas\u00f3leo A"},6:{"short":"GOB",name:"Gas\u00f3leo B"},7:{"short":"GOC",name:"Gas\u00f3leo C"},8:{"short":"BIOD",name:"Biodi\u00e9sel"}},CHART_OPTIONS=[{id:"G98",color:"#339933",name:"Gasolina 98"},{id:"G95",color:"#006633",name:"Gasolina 95"},
 {id:"NGO",color:"#aaa",name:"Nuevo Gas\u00f3leo A"},{id:"BIOD",color:"#f1aa41",name:"Biodi\u00e9sel"},{id:"GOA",color:"#000",name:"Gas\u00f3leo A"},{id:"GOC",color:"#FF3300",name:"Gas\u00f3leo C"},{id:"GOB",color:"#CC3333",name:"Gas\u00f3leo B"}],PROVS={"\u00c1lava":"01",Albacete:"02",Alicante:"03","Almer\u00eda":"04",Asturias:"33","\u00c1vila":"05",Badajoz:"06","Balears (Illes)":"07",Barcelona:"08",Burgos:"09","C\u00e1ceres":"10","C\u00e1diz":"11",Cantabria:"39","Castell\u00f3n / Castell\u00f3":"12",
 Ceuta:"51","Ciudad Real":"13","C\u00f3rdoba":"14","Coru\u00f1a (A)":"15",Cuenca:"16",Girona:"17",Granada:"18",Guadalajara:"19","Guip\u00fazcoa":"20",Huelva:"21",Huesca:"22","Ja\u00e9n":"23","Le\u00f3n":"24",Lleida:"25",Lugo:"27",Madrid:"28","M\u00e1laga":"29",Melilla:"52",Murcia:"30",Navarra:"31",Ourense:"32",Palencia:"34","Palmas (Las)":"35",Pontevedra:"36","Rioja (La)":"26",Salamanca:"37","Santa Cruz De Tenerife":"38",Segovia:"40",Sevilla:"41",Soria:"42",Tarragona:"43",Teruel:"44",Toledo:"45","Valencia / Val\u00e8ncia":"46",
-Valladolid:"47",Vizcaya:"48",Zamora:"49",Zaragoza:"50"},MONTHS="Enero Febrero Marzo Abril Mayo Junio Julio Agosto Septiembre Octubre Noviembre Diciembre".split(" "),COLORS={stroke:"#fff",min:"#36AE34",max:"#f00",mu:"#3399CC"},info=null,LS_EXPIRE=36E5,APIS={gasolineras:"api",resultados:"geo",ficha:"api"};function getProvName(a){for(k in PROVS)if(PROVS[k]==a)return k}function clearHtmlTags(a){return a.replace(/(<([^>]+)>)/ig,"")}
+Valladolid:"47",Vizcaya:"48",Zamora:"49",Zaragoza:"50"},MONTHS="Enero Febrero Marzo Abril Mayo Junio Julio Agosto Septiembre Octubre Noviembre Diciembre".split(" "),COLORS={stroke:"#fff",min:"#36AE34",max:"#f00",mu:"#3399CC"},info=null,LS_EXPIRE=36E5,APIS={gasolineras:"api",resultados:"geo",ficha:"api"};
+function lockScroll(a){document.getElementById(a).addEventListener("mouseover",function(){document.body.style.overflow="hidden"});document.getElementById(a).addEventListener("mouseout",function(){document.body.style.overflow="auto"})}function initProvLinks(a){a=document.getElementById(a);for(var c in PROVS){var b=document.createElement("li"),d=document.createElement("a");d.title="Todas las gasolineras de "+c;d.textContent=c;d.href="/gasolineras/"+encodeName(c);b.appendChild(d);a.appendChild(b)}}
+function getProvName(a){for(k in PROVS)if(PROVS[k]==a)return k}function clearHtmlTags(a){return a.replace(/(<([^>]+)>)/ig,"")}
 function toTitle(a){return a.replace(" [N]","").replace(/^CARRETERA ?|^CR\.? ?/i,"CTRA. ").replace(/(CTRA. )+/i,"CTRA. ").replace(/^AVENIDA ?|^AV. ?/i,"AVDA. ").replace(/^POLIGONO INDUSTRIAL ?|POLIGONO ?|P\.I\. ?/i,"POL. IND. ").replace(/^CALLE |^CL\.? ?|C\/ ?/i,"C/ ").replace(/^RONDA |^RD /i,"RDA. ").replace(/^AUTOPISTA (AUTOPISTA ?)?/i,"AU. ").replace(/^PLAZA ?/i,"PL. ").replace(/^PASEO (PASEO ?)?/i,"P\u00ba ").replace(/^TRAVESS?[I\u00cd]A /i,"TRAV. ").replace(/^V[i\u00ed]A (V[I\u00cd]A )?/i,"V\u00cdA ").replace(/\B[^\d- ]+[ $]/g,
 function(a){return a.toLowerCase()}).replace(/\b[NAE]-.+\b/,function(a){return a.toUpperCase()}).replace(/\[D\]$/,"(m.d.)").replace(/\[I\]$/,"(m.i.)").replace(/ \[N\]$/,"")}
 function getLogo(a){return a&&(a=a.replace(/camspa/i,"campsa"),logo=a.match(/\b(abycer|agla|alcampo|andamur|a\.?n\.? energeticos|avia|bonarea|b\.?p\.?|buquerin|campsa|carmoned|carrefour|cepsa|empresoil|eroski|esclatoil|galp|gasolben|iberdoex|leclerc|makro|meroil|norpetrol|petrem|petrocat|petromiralles|petronor|repostar|repsol|saras|shell|simply|staroil|tamoil|valcarce)\b/i))?logo[0].replace(/\./g,"").replace(/ /g,"_").toLowerCase():null}

diff --git a/static/js/min/detail.js b/static/js/min/detail.js
@@ -1,7 +1,9 @@
 var Lat2Km=111.03461,Km2Lat=0.009006,Lon2Km=85.39383,Km2Lon=0.01171,LL2Km=98.2,Km2LL=0.010183,FUEL_OPTIONS={1:{"short":"G95",name:"Gasolina 95"},3:{"short":"G98",name:"Gasolina 98"},4:{"short":"GOA",name:"Gas\u00f3leo Automoci\u00f3n"},5:{"short":"NGO",name:"Nuevo Gas\u00f3leo A"},6:{"short":"GOB",name:"Gas\u00f3leo B"},7:{"short":"GOC",name:"Gas\u00f3leo C"},8:{"short":"BIOD",name:"Biodi\u00e9sel"}},CHART_OPTIONS=[{id:"G98",color:"#339933",name:"Gasolina 98"},{id:"G95",color:"#006633",name:"Gasolina 95"},
 {id:"NGO",color:"#aaa",name:"Nuevo Gas\u00f3leo A"},{id:"BIOD",color:"#f1aa41",name:"Biodi\u00e9sel"},{id:"GOA",color:"#000",name:"Gas\u00f3leo A"},{id:"GOC",color:"#FF3300",name:"Gas\u00f3leo C"},{id:"GOB",color:"#CC3333",name:"Gas\u00f3leo B"}],PROVS={"\u00c1lava":"01",Albacete:"02",Alicante:"03","Almer\u00eda":"04",Asturias:"33","\u00c1vila":"05",Badajoz:"06","Balears (Illes)":"07",Barcelona:"08",Burgos:"09","C\u00e1ceres":"10","C\u00e1diz":"11",Cantabria:"39","Castell\u00f3n / Castell\u00f3":"12",
 Ceuta:"51","Ciudad Real":"13","C\u00f3rdoba":"14","Coru\u00f1a (A)":"15",Cuenca:"16",Girona:"17",Granada:"18",Guadalajara:"19","Guip\u00fazcoa":"20",Huelva:"21",Huesca:"22","Ja\u00e9n":"23","Le\u00f3n":"24",Lleida:"25",Lugo:"27",Madrid:"28","M\u00e1laga":"29",Melilla:"52",Murcia:"30",Navarra:"31",Ourense:"32",Palencia:"34","Palmas (Las)":"35",Pontevedra:"36","Rioja (La)":"26",Salamanca:"37","Santa Cruz De Tenerife":"38",Segovia:"40",Sevilla:"41",Soria:"42",Tarragona:"43",Teruel:"44",Toledo:"45","Valencia / Val\u00e8ncia":"46",
-Valladolid:"47",Vizcaya:"48",Zamora:"49",Zaragoza:"50"},MONTHS="Enero Febrero Marzo Abril Mayo Junio Julio Agosto Septiembre Octubre Noviembre Diciembre".split(" "),COLORS={stroke:"#fff",min:"#36AE34",max:"#f00",mu:"#3399CC"},info=null,LS_EXPIRE=36E5,APIS={gasolineras:"api",resultados:"geo",ficha:"api"};function getProvName(a){for(k in PROVS)if(PROVS[k]==a)return k}function clearHtmlTags(a){return a.replace(/(<([^>]+)>)/ig,"")}
+Valladolid:"47",Vizcaya:"48",Zamora:"49",Zaragoza:"50"},MONTHS="Enero Febrero Marzo Abril Mayo Junio Julio Agosto Septiembre Octubre Noviembre Diciembre".split(" "),COLORS={stroke:"#fff",min:"#36AE34",max:"#f00",mu:"#3399CC"},info=null,LS_EXPIRE=36E5,APIS={gasolineras:"api",resultados:"geo",ficha:"api"};
+function lockScroll(a){document.getElementById(a).addEventListener("mouseover",function(){document.body.style.overflow="hidden"});document.getElementById(a).addEventListener("mouseout",function(){document.body.style.overflow="auto"})}function initProvLinks(a){a=document.getElementById(a);for(var b in PROVS){var c=document.createElement("li"),d=document.createElement("a");d.title="Todas las gasolineras de "+b;d.textContent=b;d.href="/gasolineras/"+encodeName(b);c.appendChild(d);a.appendChild(c)}}
+function getProvName(a){for(k in PROVS)if(PROVS[k]==a)return k}function clearHtmlTags(a){return a.replace(/(<([^>]+)>)/ig,"")}
 function toTitle(a){return a.replace(" [N]","").replace(/^CARRETERA ?|^CR\.? ?/i,"CTRA. ").replace(/(CTRA. )+/i,"CTRA. ").replace(/^AVENIDA ?|^AV. ?/i,"AVDA. ").replace(/^POLIGONO INDUSTRIAL ?|POLIGONO ?|P\.I\. ?/i,"POL. IND. ").replace(/^CALLE |^CL\.? ?|C\/ ?/i,"C/ ").replace(/^RONDA |^RD /i,"RDA. ").replace(/^AUTOPISTA (AUTOPISTA ?)?/i,"AU. ").replace(/^PLAZA ?/i,"PL. ").replace(/^PASEO (PASEO ?)?/i,"P\u00ba ").replace(/^TRAVESS?[I\u00cd]A /i,"TRAV. ").replace(/^V[i\u00ed]A (V[I\u00cd]A )?/i,"V\u00cdA ").replace(/\B[^\d- ]+[ $]/g,
 function(a){return a.toLowerCase()}).replace(/\b[NAE]-.+\b/,function(a){return a.toUpperCase()}).replace(/\[D\]$/,"(m.d.)").replace(/\[I\]$/,"(m.i.)").replace(/ \[N\]$/,"")}
 function getLogo(a){return a&&(a=a.replace(/camspa/i,"campsa"),logo=a.match(/\b(abycer|agla|alcampo|andamur|a\.?n\.? energeticos|avia|bonarea|b\.?p\.?|buquerin|campsa|carmoned|carrefour|cepsa|empresoil|eroski|esclatoil|galp|gasolben|iberdoex|leclerc|makro|meroil|norpetrol|petrem|petrocat|petromiralles|petronor|repostar|repsol|saras|shell|simply|staroil|tamoil|valcarce)\b/i))?logo[0].replace(/\./g,"").replace(/ /g,"_").toLowerCase():null}

diff --git a/static/css/detail.css b/static/css/detail.css
@@ -45,8 +45,8 @@ h2 {
 	position: absolute;
 	left: -10px;
 	bottom: 0;
-	width: 320px;
-	height: 150px;
+	width: 360px;
+	height: 144px;
 	background-image: url(/img/grass.png); /* fallback */
 	background-position: bottom;
 	background-repeat: no-repeat;

diff --git a/static/css/list.css b/static/css/list.css
@@ -17,7 +17,6 @@ body {
 	}
 }
 
-
 @media only screen and (min-width: 601px) {
 #control {
 	width: 350px;
